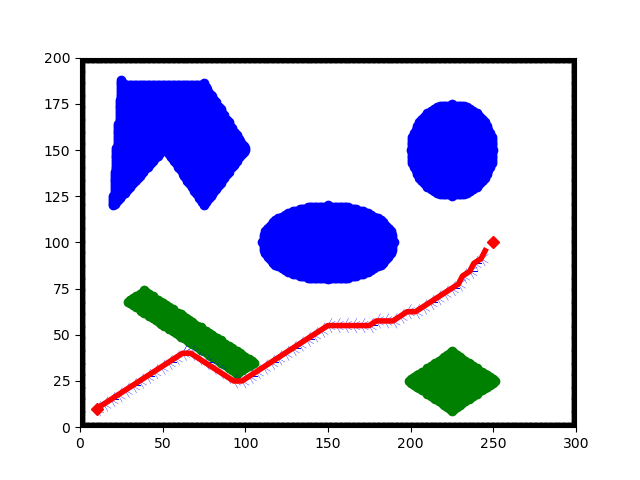
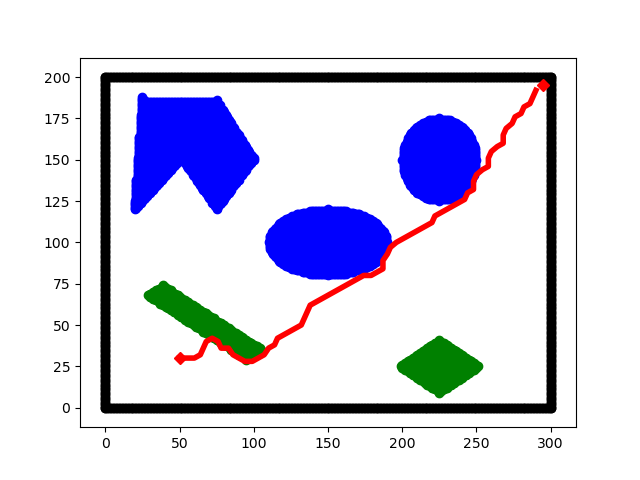
Final code

Changed region(s): [[0.0625, 0.0938, 0.9375, 0.9375], [0.4375, 0.5625, 0.5938, 0.625], [0.3438, 0.2188, 0.375, 0.25]]

diff --git a/Functions.py b/Functions.py
@@ -5,12 +5,12 @@ from finalmap import *
 
 
 
-def ActionSet(d):
-    all_moves = [[d*1, 0, 0],                                # parallel to x
-                 [d*math.cos(math.radians(30)),  d*math.sin(math.radians(30)), 30],         # positive 30
-                 [d*math.cos(math.radians(60)),  d*math.sin(math.radians(60)), 60],         # positive 60
-                 [d*math.cos(math.radians(-30)), d*math.sin(math.radians(-30)), -30],        # negative 30
-                 [d*math.cos(math.radians(-60)), d*math.sin(math.radians(-60)), -60]]        # negative 60
+def ActionSet(d, theta):
+    all_moves = [[d*math.cos(math.radians(theta + 0)), d*math.sin(math.radians(theta + 0)), theta + 0],          # parallel to x
+                 [d*math.cos(math.radians(theta + 30)),  d*math.sin(math.radians(theta + 30)), theta + 30],         # positive 30
+                 [d*math.cos(math.radians(theta + 60)),  d*math.sin(math.radians(theta + 60)), theta + 60],         # positive 60
+                 [d*math.cos(math.radians(theta - 30)), d*math.sin(math.radians(theta -30)), theta - 30],        # negative 30
+                 [d*math.cos(math.radians(theta - 60)), d*math.sin(math.radians(theta -60)), theta - 60]]        # negative 60
     return all_moves
 
 def backtracking(closed_list):
@@ -32,59 +32,59 @@ def backtracking(closed_list):
 
 def Astar(start_pos, goal_pos,step,clear, thres):
     # each node has three attributes 1) Parent 2) co-ordinates 3) Cost to Come
-    start_node = (0, start_pos, None)
+    d_ini = math.sqrt((goal_pos[0] - start_pos[0]) ** 2 + (goal_pos[1] - start_pos[1]) ** 2)
+    start_node = (d_ini, start_pos, None)
     goal_node = (0, goal_pos, None)
     plot_x = []
     plot_y = []
-    space = ActionSet(step)
+    new_min=[]
     open_list = []
-    sort=[]
-    heapq.heappush(sort, start_node)
+
+
+    new_min.append(start_node)
     closed_list = []
     open_list.append(start_node)
-    # obstacle_space[start_node[1][0]][start_node[1][1]] = 1
-    x=0
-    plt.xlim(0, 300)
-    plt.ylim(0, 200)
+    V = np.zeros((int(300/thres),int(200/thres),13))
+
+    theta=30
+
     while len(open_list) > 0:
-        current_node = heapq.heappop(sort)
-        closed_list.append( current_node)
+        new_min = heapq.nsmallest(5, open_list)
+        for ele in new_min:
+            current_node = ele
+            theta = current_node[1][2]
+            closed_list.append( current_node)
 
-        plot_x.append(current_node[1][0])
-        plot_y.append(current_node[1][1])
+            plot_x.append(current_node[1][0])
+            plot_y.append(current_node[1][1])
 
-        res=(((current_node[1][0] - goal_pos[0]) ** 2) + ((current_node[1][1]-goal_pos[1]) ** 2) )
-        if res<=(step*1.5)**2:
-            print('Reached Goal')
-            final_path = backtracking(closed_list)
-            return final_path
-        for newnode_pos in space:
+            res=(((current_node[1][0] - goal_pos[0]) ** 2) + ((current_node[1][1]-goal_pos[1]) ** 2) )
+            if res<=(step*1.5)**2:
+                print('Reached Goal')
+                final_path = backtracking(closed_list)
+                return final_path
+            for j in range(5):
+                newnode_pos = ActionSet(step, theta)
+                # Get node position
+                node_position = (round(current_node[1][0] + newnode_pos[j][0]),
+                                 round(current_node[1][1] + newnode_pos[j][1]), newnode_pos[j][2])
+                node_parent = current_node[1]
+                cost2come = math.sqrt((goal_pos[0] - node_position[0]) ** 2 + (goal_pos[1] - node_position[1]) ** 2)
+                cost2go =  math.sqrt((node_position[0]-node_parent[0]) ** 2 + (node_position[1] - node_parent[1]) ** 2)
+                node_position_cost = current_node[0] + cost2go
+                Aux = round(cost2go + cost2come)
+                node_position1=isobstacle(clear,node_position[0],node_position[1],1)
+                if node_position1 == False:
+                    if  V[int(node_position[0]/thres)][int(node_position[1]/thres)][int(node_position[2]/30)]==0:
+                        V[int(node_position[0]/thres)][int(node_position[1]/thres)][int(node_position[2]/30)]=1
 
-            # Get node position
-            node_position = (current_node[1][0] + newnode_pos[0],
-                             current_node[1][1] + newnode_pos[1],newnode_pos[2])
-            node_parent = current_node[1]
-            cost2come = math.sqrt((goal_pos[0] - node_position[0]) ** 2 + (goal_pos[1] - node_position[1]) ** 2)
-            cost2go =  math.sqrt((node_position[0]-node_parent[0]) ** 2 + (node_position[1] - node_parent[1]) ** 2)
-            node_position_cost = current_node[0] + cost2go
-            Aux = cost2go + cost2come
+                        new_node = (Aux, node_position, node_parent)
+                        heapq.heappush(open_list, new_node)
+                    else:
+                        continue
+                    # plt.quiver(new_node[2][0], new_node[2][1], newnode_pos[j][0], newnode_pos[j][1], units='xy' ,scale=1,color= 'g',headwidth = 1,headlength=0,width=0.2)
+                    # plt.pause(0.00001)
 
-            # Bounds check
-            # if node_position[0] > (len(obstacle_space) - 1) or node_position[0] < 0 or node_position[1] > (len(obstacle_space[1]) - 1) or node_position[1] < 0:
-            #     continue
-            #
-            # # Ignore the locations in map which are obstacles
-            # if obstacle_space[node_position[0]][node_position[1]] != 0:
-            #     continue
 
-            # Creating cost_map
-            # obstacle_space[node_position[0]][node_position[1]] = 1
-            node_position1=isobstacle(clear,node_position[0],node_position[1],thres)
-            if node_position1==False:
-                new_node = (Aux, node_position, node_parent)
-                heapq.heappush(sort, new_node)
 
-            plt.quiver(new_node[2][0], new_node[2][1], newnode_pos[0], newnode_pos[1], units='xy' ,scale=1,color= 'b',headwidth = 1,headlength=0,width=0.2)
-            plt.pause(0.001)
-
-        x+=1
+        heapq.heappop(open_list)

diff --git a/finalmap.py b/finalmap.py
@@ -21,11 +21,12 @@ def isobstacle(clearance, x, y, thresh):
                 0 <= 9 * y - 5 * x + 205 + 9 * clearance) and (0 <= 65 * y + 38 * x - (5560 - 65 * clearance)):
             return True
         elif ((y - 13 * x + (140 - 5 * clearance) <= 0) and (0 <= y - x - (100 - clearance)) and (
-                5 * y + 7 * x - (1110 + 5 * clearance) <= 0) and (y - (185 + clearance) <= 0) and (x - 75 <= 0) and
-              (0 <= 10 * y + 13 * x - (2175 + clearance)) and (5 * y + 7 * x - (1450 + 5 * clearance) <= 0) and (
-                      0 <= 5 * y - 6 * x - (150 + clearance)) and (0 <= x - 75)):
+                5 * y + 7 * x - (1110 + 5 * clearance) <= 0)):
             return True
-
+        elif (0 <= y - x - (100 - clearance)) and (5 * y + 7 * x - (1110 + 5 * clearance) >= 0) and (x <=185):
+            return True
+        elif (0 >= y - x - (100 - clearance)) and (5 * y + 7 * x - (1110 + 5 * clearance) >= 0) and (5 * y + 7 * x - (1450 + 5 * clearance) <= 0) and (0 <= 5 * y - 6 * x - (150 + clearance)):
+            return True
         else:
             return False
 

diff --git a/A_star.py b/A_star.py
@@ -18,19 +18,17 @@ if userdefined:
 
 
 else:
-    start_nodex = 10
-    start_nodey = 10
-    goal_nodex = 250
-    goal_nodey = 100
-    clearance = 5
+    start_nodex = 50
+    start_nodey = 30
+    goal_nodex = 295
+    goal_nodey = 195
+    clearance = 1
     d = 1
-    thresho = 0.5
-    radius = 2
-    # start_angle = 30
-    # goal_angle = 30
+    thresho = 1
+    radius = 1
+    start_angle = 60
+    goal_angle = 30
 d=5
-start_angle = 30
-goal_angle = 30
 start_pos = (start_nodex, start_nodey, start_angle)
 goal_pos = (goal_nodex, goal_nodey, goal_angle)
 plt.plot(start_nodex, start_nodey, "Dr")
